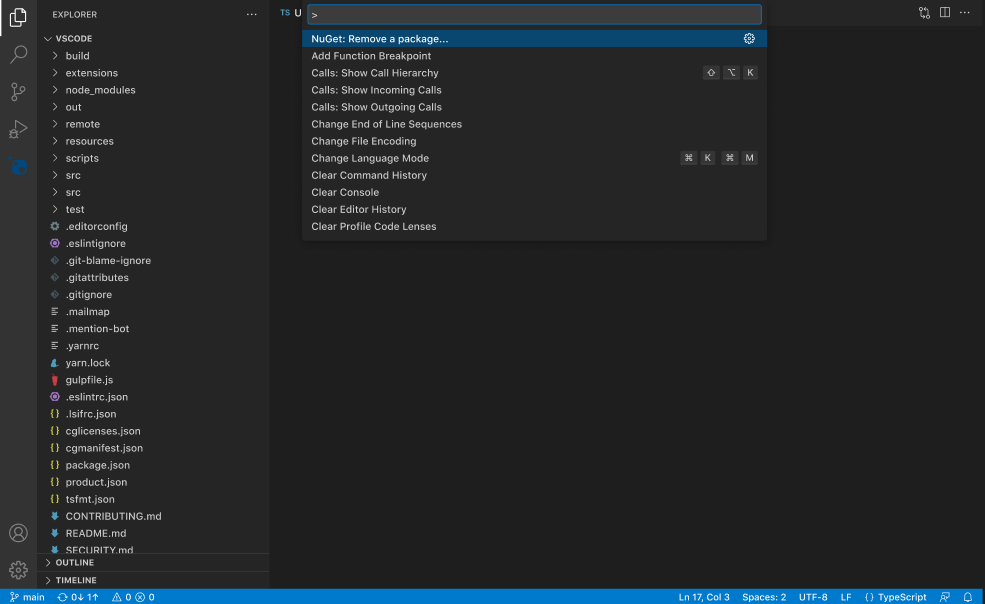
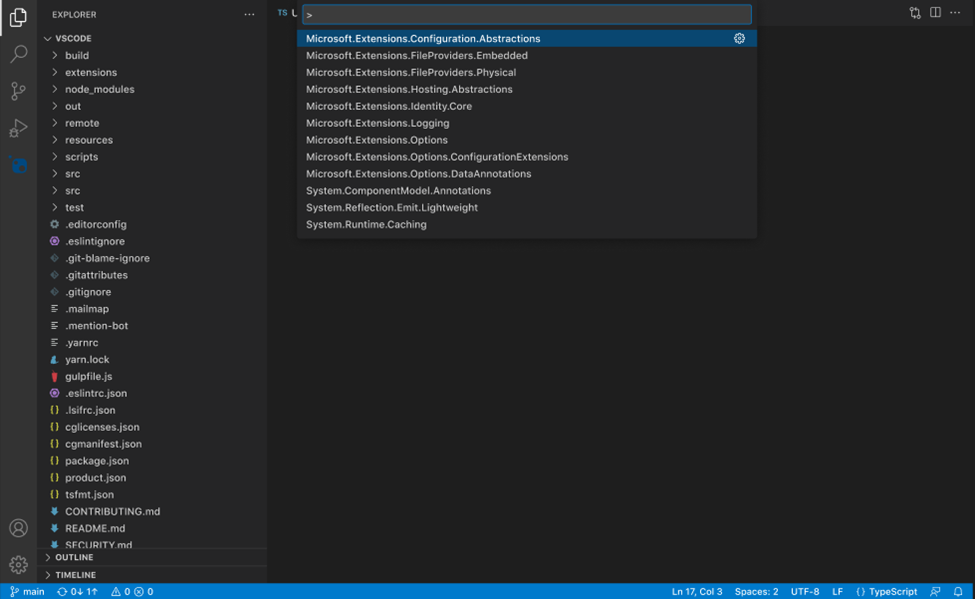
updated version from feedback

diff --git a/accepted/2023/vscode-commands.md b/accepted/2023/vscode-commands.md
@@ -1,23 +1,22 @@
-# NuGet Package Management: Command Palette & Quick Picks in Visual Studio Code/C# Dev Kit - MVP
+# NuGet Command Experiences for VS Code & C# Dev Kit Solution Explorer
 
-- Jon Douglas, Allie Barry, Jean-Pierre Briede
-- GitHub Issue <!-- GitHub Issue link -->
+- Allie Barry, Jon Douglas, Jean-Pierre Briede
 
 ## Summary
 
-<!-- One-paragraph description of the proposal. -->
-This proposal introduces a command palette experience including 'quickpick' flows and integration with C# DevKit for NuGet package management. It covers the initial experiences for adding, removing, and updating a NuGet package. This document covers the minimum viable product (MVP) for a NuGet command palette experience, and leaves room for growth and expansion on these initial concepts, both in enhancing these 3 features, or in the addition of more NuGet command palette features.
+This proposal introduces a Visual Studio Code NuGet package management experience including command palette flows and integration with C# Dev Kit. It covers the initial experiences for adding, removing, and updating a NuGet package. This document covers the minimum viable product (MVP) for a NuGet command palette experience, and leaves room for growth and expansion on these initial concepts, both in enhancing these 3 features, or in the addition of more NuGet command palette features.
 
 ## Table of Contents
 
 1. [Motivation](#motivation)
 2. [Functional Explanation](#functional-explanation)
-    - [Browse and Install a Package - Command Palette](#option-1-navigating-to-add-package-directly-in-command-palette)
-    - [Browse and Install a Package - C# Dev Kit](#option-2-navigating-to-nuget-add-package-command-through-c-devkit-solution-explorer)
-    - [Removing a Package - Command Palette](#option-1-navigating-to-remove-package-directly-in-command-palette)
-    - [Removing a Package - C# Dev Kit](#option-2-navigating-to-nuget-remove-package-command-through-c-devkit-solution-explorer)
-    - [Updating a Package - Command Palette](#option-1-navigating-to-update-package-directly-in-command-palette)
-    - [Updating a Package - C# Dev Kit](#option-2-navigating-to-nuget-update-package-command-through-c-devkit-solution-explorer)
+    - [Browse and Install a Package - Entry Points](#browse-and-install-a-package---entry-points)
+    - [Browse and Install a Package - Operation Flow](#browse-and-install-a-package---operation-flow)
+    - [Remove a Package - Entry Points](#removing-a-package---entry-points)
+    - [Remove a Package - Operation Flow](#removing-a-package---operation-flow)
+    - [Update - Entry Points](#updating-a-package---entry-points)
+    - [Update a Package - Operation Flow](#updating-a-package---operation-flow)
+    - [Authentication to Private Feeds](#authentication-to-private-feeds)
 3. [Technical Explanation](#technical-explanation)
 4. [Drawbacks](#drawbacks)
 5. [Rationale and Alternatives](#rationale-and-alternatives)
@@ -27,148 +26,153 @@ This proposal introduces a command palette experience including 'quickpick' flow
 
 ## Motivation
 
-<!-- Why are we doing this? What pain points does this solve? What is the expected outcome? -->
 Visual Studio Code now supports "C# Dev Kit" which is an extension that allows a .NET/C# developer to use familiar Visual Studio tooling for their purposes. This proposal brings integrated Visual Studio Code-like experiences directly into the extension to make it easier for .NET/C# developers to manage their packages and package-related tasks.
 
-Requests for NuGet functionality are at an all time high since the general availability of C# Dev Kit. NuGet feature requests remain in the top 3 of GitHub issues on the C# Dev Kit repository. It was a popular ask at MVP Summit, Microsoft Build, and dotnetConf.
+Requests for NuGet functionality are at an all-time high since the general availability of C# Dev Kit. NuGet feature requests remain in the top 3 of GitHub issues on the C# Dev Kit repository. It was a popular ask at MVP Summit, Microsoft Build, and dotnetConf.
 
-In a recent Visual Studio for Mac/C# Dev Kit survey, when asked about "features or experiences missing from the VS Code experience that are critical to their workflow", 20 out of 157 respondents mentioned NuGet package manager functionality. They specifically called out "being able to look up available NuGet packages to solve specific problems", "updating to the latest version of NuGet packages", and wanting a "visual experience".
+In a recent Visual Studio for Mac/C# Dev Kit survey, when asked about "features or experiences missing from the VS Code experience that are critical to their workflow", 20 out of 157 respondents mentioned NuGet package manager functionality. They specifically called out "being able to look up available NuGet packages to solve specific problems", "updating to the latest version of NuGet packages” and wanting a "visual experience".
 
-For each feature, there are two "entry points" presented for how users can reach each command. The commands will be exactly the same for each entry point. The purpose of this is to allow for VS Code developers who are familiar with and comfortable using the command palette to continue doing so when managing NuGet packages, but to also cater to and integrate seamlessly into C# DevKit. We wanted to tap into the rich and expansive C# experience that Dev Kit offers, and utilize it to provide a more visual NuGet experience without yet having a full UI. This concept came from exploration of ways that developers can currently interact with elements in the C# Dev Kit solution explorer (ex. files, folders, etc.), and wanting to allow developers to interact with packages in the solution explorer in an intuitive way based on this.
+For each feature, there are two "entry points" presented for how users can reach each package operation. The operations will be the same for each entry point. The purpose of this is to allow for VS Code developers who are familiar with and comfortable using the command palette to continue doing so when managing NuGet packages, but to also cater to and integrate seamlessly into C# Dev Kit Solution Explorer. We wanted to tap into the rich and expansive C# experience that Dev Kit offers through the solution explorer, and utilize it to provide a more visual NuGet experience without yet having a full UI. This concept came from exploration of ways that developers can currently interact with elements in the C# Dev Kit solution explorer (ex. files, folders, etc.), and wanting to allow developers to interact with packages in the solution explorer in an intuitive way based on this.
 
-Given the high demand for this functionality, we first plan to integrate NuGet package management into C# Dev Kit and the VS Code command palette to get a solution for managing NuGet packages into the hands of users as soon as possible. From there, we plan to explore and build a visual UI to compliment and enhance this experience.
+Given the high demand for this functionality, we first plan to integrate NuGet package management into C# Dev Kit and the VS Code command palette to get a solution for managing NuGet packages into the hands of users as soon as possible. From there, we plan to explore and build a visual UI to complement and enhance this experience.
 
 ## Functional Explanation
 
-<!-- Explain the proposal as if it were already implemented and you're teaching it to another person. -->
-<!-- Introduce new concepts, functional designs with real life examples, and low-fidelity mockups or pseudocode to show how this proposal would look. -->
+Each package operation (add, remove, and update), will essentially be broken down into two “steps”: the entry point and the operation. For step 1 (the entry point), the user will have two options:
+a. Command Palette
+b. Solution Explorer
+These two options represent different ways that the user can initiate a NuGet package operation in their project. Once the operation is initiated, step 2 (the operation), will behave the same way, and have the same flow, regardless of the entry point chosen. Below is a diagram which visually represents this logic for the package installation operation.
 
-### Browse and Install a Package
+![Alt text](../../meta/resources/vscode-commands/flowdiagram.png)
 
-#### Option 1: Navigating to add package directly in command palette
+This format will be used for all operations in the MVP including add package, remove package, update package. The following sections will provide more detail for the flow of each of these operations.
+
+### Browse and Install a Package - Entry Points
+
+#### Option A: Command Palette Entry Point
 
 A new command is listed named `NuGet: Add package...``.
 
-![Screenshot showing the Visual Studio Code command palette with 'NuGet: Add package...' command at the top of the list and highlighted](../../meta/resources/vscode-commands/addpackage-commandpalette1.png)
+![Alt text](../../meta/resources/vscode-commands/addpackage.png)
 
-When a developer selects this command, they might first have to set the context for where they would like this package to be installed, at the project level or at the solution level for projects with multiple solutions. If, in a certain use case this distinction needs to be made, the user will first have to specify the context in the first quickpick option. There are a few other options for how we could allow the user to set the context for operations detailed in the 'Unanswered questions' section of this document.
+Next, if the user has multiple projects, they will be presented with with a quickpicks dialog asking them to choose, from a dropdown list, which of their projects they would like to add the package to.
+For now, this will be a single selection, where the user can only select one project at a time.
+If the user only has one project, they will not need to choose a project and they will skip to the next step.
 
-![Screenshot showing quickpicks option asking the user to select if they want the package to be installed at the project level or the solution level.](../../meta/resources/vscode-commands/addpackage-context.png)
+#### Option B: Solution Explorer Entry Point
 
-The rest of the flow will be the same for both project and solution level installations. Next, they will see a search box to provide a search term for a respective package to be found on their package sources. If the user wants to search specifically by a package attribute, they can do so by following the convention 'owner:Microsoft'. Otherwise, the search will search across all package attributes. (To see more information about what is supported with the syntax, see here: ![Fins and evaluate NuGet packages | Microsoft Learn](https://learn.microsoft.com/en-us/nuget/consume-packages/finding-and-choosing-packages#search-syntax).)
+At the Project level node in the solution explorer, we plan to add an item to the right-click menu that reads “Add a NuGet Package”.
 
-![Screenshot showing the quick picks search box prompting the user to enter a search term to search for a NuGet package.](../../meta/resources/vscode-commands/addpackage-searchbox.png)
+![Alt text](../../meta/resources/vscode-commands/addpackage-rightclick.png)
 
-The developer can then enter a search term to search for a NuGet package, and press enter. At this point, if they would like to cancel the operation, they can press the 'Escape' key on the keyboard. There will be a line of text underneath the searchbox that alerts the user of the functions of both the 'Enter' and 'Escape' keys here.
+Additionally, in the solution explorer, there is a "Dependencies" node, and within that node, there is a "Packages" node   , which contains a list of all the NuGet packages directly installed into the solution in question. This folder only is visible in the solution explorer if there are already previously installed NuGet packages in the project. If the Packages folder is visible, when a user hovers over it, they will see a small icon showing the NuGet logo with a plus sign next to it appear in line on the far right  (actual icon to be used: pending design).
 
-When the developer presses enter, the results box will appear and provide them a selectable list of packages that match their search term. For the first iteration of this experience, only the package ID will be shown in the search results. There are a few other possible options for what the search results could look like in the "Future Possibilities" section later in this document.
+![Alt text](../../meta/resources/vscode-commands/addpackage-icon.png)
 
-![Screenshot showing the list of search results of NuGet packages when a user searched for the term "Microsoft". The results are a list of package ids on nuget.org that match the search term "Microsoft".](../../meta/resources/vscode-commands/addpackage-searchresults.png)
+Additionally, there will be another right-click menu on the Packages node  (if it is visible), providing them with options to manage their NuGet packages. Specifically, they will see an option to "Add package...".
+
+![Alt text](../../meta/resources/vscode-commands/addpackage-rightclick2.png)
+
+### Browse and Install a Package - Operation Flow
+
+First, the user will see a search box to provide a search term for a respective package to be found on their package sources. If the user wants to search specifically by a package attribute , and nuget.org is one of the configured package sources, they can do so by following the convention 'owner:Microsoft'. Otherwise, the search will search across all package attributes. (To see more information about what is supported with the syntax, see here : [Find and evaluate NuGet packages | Microsoft Learn](https://learn.microsoft.com/en-us/nuget/consume-packages/finding-and-choosing-packages))
+
+![Alt text](../../meta/resources/vscode-commands/addpackage-searchbox.png)
+
+The developer can then enter a search term to search for a NuGet package, and press enter. At this point, if they would like to cancel the operation, they can press the 'Escape' key on the keyboard. There will be a line of text underneath the search box that alerts the user of the functions of both the 'Enter' and 'Escape' keys here.
+
+When the developer presses enter, the results box will appear and provide them a selectable list of packages  that match their search term.  The search results will show the top 50 relevant packages which match this search term. For the first iteration of this experience, only the package ID will be shown in the search results. There are a few other possible options for what the search results could look like in the "Future Possibilities" section later in this document.
+
+![Alt text](../../meta/resources/vscode-commands/addpackage-searchbox2.png)
 
 Once a package is selected from the list, the user will then be prompted to select the version number that they would like to install.
 
-![Screenshot showing a selectable list of version numbers for 'Microsoft.CSharp' package.](../../meta/resources/vscode-commands/addpackage-searchresults.png)
+![Alt text](../../meta/resources/vscode-commands/addpackage-versionselect.png)
 
-Once the user selects their desired version number, the package will be installed. Once installation has either succeeded or failed, the developer will receive a toast notification notifying them of the status of the installation operation. If the installation has succeeded, the notification will read " Package X was successfully installed". If the installation has failed then the notification will read "Package X failed to install due to an error.". This toast will also include a blue button that says "More Information", which when clicked, will direct the developer to the output window where they can see why the installation failed.
+Once the user selects their desired version number  , the package will be installed . 
+If for some reason, the installation operation has failed, then the user will receive a toast notification which will read "Package X failed to install due to an error.". This toast will also include a button that says "More Information", which when clicked, will direct the developer to the output window where they can see why the installation failed.
 
-![Screenshot showing failed package install notification](../../meta/resources/vscode-commands/addpackage-failurenotification.png)
+![Alt text](../../meta/resources/vscode-commands/addpackage-failuretoast.png)
 
-![Screenshot showing successful package install notification](../../meta/resources/vscode-commands/addpackage-successnotification.png)
+### Removing a Package - Entry Points
 
-#### Option 2: Navigating to 'NuGet: Add Package' command through C# DevKit Solution Explorer
-
-A developer will also be able to access the same add package command through a right click experience built directly into the solution explorer offered through C# DevKit. We want to provide an experience that aligns closely with the experience that is currently offered in, and future plans for, C# Dev Kit. When interacting with the solution explorer for C# projects that is offered through DevKit, many of the elements that exist today can be interacted with through a similar right-click experience, as well as icons that appear on hover of these elements that allow for quick selection of common functions. We want to incorporate this functionality into the NuGet VS Code experience to allow for a seamless and well-rounded experience for C# Developers.
-
-In the solution explorer, there is a "Dependencies" node, and within that node, there is a "Packages" node, which contains a list of all of the NuGet packages directly installed into the solution in question. When a user hovers over this "Packages" folder, they will see a small plus sign icon appear in line on the far right.
-
-![A screenshot showing the plus sign icon that will appear next to the "packages" folder when a user hovers over it](../../meta/resources/vscode-commands/addpackage-plussign.png)
-
-Additionally, when the user right clicks on this Packages folder, they will see a menu show up, providing them with options to manage their NuGet packages. Specifically, they will see an option to "Add package...".
-
-![Screenshot showing the menu that will appear when a user right clicks on the "packages folder" in C# DevKit. The menu contains an option to add a nuget package](../../meta/resources/vscode-commands/addpackage-rightclickmenu.png)
-
-When the user selects the "Add package" menu list item, or when they select the 'plus sign' icon that appears on hover next to the
-'Packages' folder, the command palette will open and they will be guided through the same package install process described in option 1, starting with the empty search box to search for a specific package.
-
-![Screenshot showing the quick picks search box prompting the user to enter a search term to search for a NuGet package.](../../meta/resources/vscode-commands/addpackage-searchbox.png)
-
-### Removing a Package
-
-#### Option 1: Navigating to remove package directly in command palette
+#### Option A: Command Palette Entry Points
 
 A new command is listed named `NuGet: Remove a package...``.
 
-![Screenshot showing the command palette command called 'NuGet: Remove a package...'](../../meta/resources/vscode-commands/removepackage-searchbox.png)
+![Alt text](../../meta/resources/vscode-commands/removepackage.png)
 
-When a developer selects this command, it will prompt them in a search box to provide a search term for a respective package to be found within the packages they have installed in their current solution. Beneath the search bar, a list of all packages installed in the solution will appear, and the developer will have the option to enter a search term to narrow down the list, or just select directly from the list provided.
+When a developer selects this command, they will be prompted to select which project they would like to remove a package from with a dropdown of all of their projects. If the user only has one project, they will not see this option, and will skip to the next step.
 
-![Screenshot showing the search bar for removing a package, with the list of all potential options (packages installed in the solution) pre-populated below the search bar](../../meta/resources/vscode-commands/removepackage-searchresults.png)
+Next, the user will be prompted in a search box to provide a search term for a respective package to be found within the packages they have installed in their current project.  Beneath the search bar, a list of all packages installed in the project will appear, and the developer will have the option to enter a search term to narrow down the list, or just select directly from the list provided.
 
-![Screenshot showing the search bar for removing a package, with a search term entered and the list of potential packages listed below is now narrowed down to only packages installed in the solution AND that match the search term](../../meta/resources/vscode-commands/removepackage-searchresults2.png)
+![Alt text](../../meta/resources/vscode-commands/removepackage-searchbox.png)
 
-When the user selects the package they would like to remove, if it is a project with multiple solutions, and the package is installed at the project level, the user will need to choose if they would like the package to be removed at the solution level or the project level.
+![Alt text](../../meta/resources/vscode-commands/removepackage-searchbox2.png)
 
-![Alt text](../../meta/resources/vscode-commands/removepackage-context.png)
-
-Once they make this choice, if necessary, they will be prompted to confirm their choice with a pop-up bar. If the user confirms this by clicking 'Remove', the package will be removed from their solution. They will also have the option to cancel the operation at this point.
-
-![Screenshot showing the pop-up notification asking the user to confirm the removal of a package from their solution](../../meta/resources/vscode-commands/removepackage-confirmation.png)
-
-#### Option 2: Navigating to 'NuGet: Remove package' command through C# DevKit solution explorer
-
-A developer will also be able to access the same remove package command through an experience built directly into the solution explorer offered through C# DevKit.
+#### Option B: Solution Explorer Entry Points
 
 When a user hovers over a package that they have installed in their solution explorer, they will see two small icons appear, one of which being a 'minus sign'.
 
-![Alt text](../../meta/resources/vscode-commands/updateremove-hover.png)
+![Alt text](../../meta/resources/vscode-commands/removeupdate-icon.png)
 
-Additionally, if the developer right clicks on a specific package in the folder, they will see a menu of options for operations to perform on this specific package. One of these options will be: "Remove package...".
+Additionally, if the developer right clicks on a specific package in the folder, they will see a menu of options for operations to perform on this specific package.  One of these options will be: "Remove NuGet package...".
 
-![Screenshot showing the C# dev kit solution explorer. The user has right clicked on a package in the 'Packages' folder, and a pop up menu is shown with the options 'Remove package...' and 'Update package...'](../../meta/resources/vscode-commands/rightclick-removeandupdate.png)
+![Alt text](../../meta/resources/vscode-commands/removeupdate-rightclick.png)
 
-When the user either clicks the minus sign in the solution explorer or clicks the 'Remove package...' menu item, they will be prompted to confirm their choice with a pop-up bar. When the user selects the 'Remove package...' option, the package will be removed from their solution, and it will disappear from their Dev Kit solution explorer. They will also have the option to cancel the operation at this point.
+### Removing a Package - Operation Flow
 
-![Screenshot showing the pop-up notification asking the user to confirm the removal of a package from their solution](../../meta/resources/vscode-commands/removepackage-confirmation.png)
+Once the user selects their desired package to be removed through one of the two entry points, they will be prompted to confirm their choice with a pop-up   . If the user confirms this by clicking 'Remove', the package will be removed from their project.  They will also have the option to cancel the operation at this point.
 
-### Updating a Package
+![Alt text](../../meta/resources/vscode-commands/removepackage-confirm.png)
 
-#### Option 1: Navigating to update package directly in command palette
+### Updating a Package - Entry Points
+
+#### Option A: Command Palette Entry Point
 
 A new command is listed named `NuGet: Update a package...``.
 
-![Screenshot showing the 'Update a package...' command in the command palette options](../../meta/resources/vscode-commands/updatepackage-commandpalette.png)
+![Alt text](../../meta/resources/vscode-commands/updatepackage.png)
 
-When a developer selects this command, it will prompt them in a search box to provide a search term for a respective package to be found within the packages they have installed in their current solution. Beneath the search bar, a list of all packages installed in the solution will appear, and the developer will have the option to enter a search term to narrow down the list, or just select directly from the list provided.
+When a developer selects this command, they will be prompted to select which project they would like to update a package in with a dropdown of all of their projects. If the user only has one project, they will not see this option, and will skip to the next step.
 
-![Screenshot showing the search bar for updating a package, with the list of all potential options (packages installed in the solution) pre-populated below the search bar](../../meta/resources/vscode-commands/removepackage-searchresults.png)
+Next, the user will be prompted in a search box to provide a search term for a respective package to be found within the packages they have installed in their current project.   Beneath the search bar, a list of all packages installed in the project will appear, and the developer will have the option to enter a search term to narrow down the list, or just select directly from the list provided.
 
-![Screenshot showing the search bar for updating a package, with a search term entered and the list of potential packages listed below is now narrowed down to only packages installed in the solution AND that match the search term](../../meta/resources/vscode-commands/removepackage-searchresults2.png)
+![Alt text](../../meta/resources/vscode-commands/removepackage-searchbox.png)
 
-When the user selects the package they would like to update, they will then see a list of all available versions of the package they've selected. They will also see a label that says 'current' next to the version they have currently installed.
+![Alt text](../../meta/resources/vscode-commands/removepackage-searchbox2.png)
 
-![Screenshot showing the command palette view to select which version of a package that you would like to update to](../../meta/resources/vscode-commands/updatepackage-versionselection.png)
+#### Option B: Solution Explorer Entry Points
 
-When the user selects the package they would like to update, if it is a project with multiple solutions, and the package is installed at the project level, the user will need to choose if they would like the package to be updated at the solution level or the project level.
+When a user hovers over a package that they have installed in their solution explorer, they will see two small icons appear, one of which being a 'up-arrow'.
 
-![Alt text](../../meta/resources/vscode-commands/updatepackage-context.png)
+![Alt text](../../meta/resources/vscode-commands/removeupdate-icon.png)
 
-Once the user makes this selection if necessary, the package version number will be updated in the solution.
+Additionally, if the developer right clicks on a specific package in the folder, they will see a menu of options for operations to perform on this specific package.  One of these options will be: "Update NuGet package version".
 
-#### Option 2: Navigating to 'NuGet: Update Package' command through C# DevKit solution explorer
+![Alt text](../../meta/resources/vscode-commands/removeupdate-rightclick.png)
 
-A developer will also be able to access the same update package command through an experience built directly into the solution explorer offered through C# DevKit.
+### Updating a Package - Operation Flow
 
-When a user hovers over a package that they have installed in their solution explorer, they will see two small icons appear, one of which being a 'up arrow'.
+When the user selects the package they would like to update , they will then see a list of all available versions of the package they've selected. They will also see a label that says 'current' next to the version they have currently installed.
 
-![Alt text](../../meta/resources/vscode-commands/updateremove-hover.png)
+![Alt text](../../meta/resources/vscode-commands/updatepackage-versionselect.png)
 
-Additionally, if the developer right clicks on a specific package in the folder, they will see a menu of options for operations to perform on this specific package. One of these options will be: "Update package...".
+Once the user makes this selection, if necessary, the package version number will be updated in the solution.
 
-![Screenshot showing the C# dev kit solution explorer. The user has right clicked on a package in the 'Packages' folder, and a pop up menu is shown with the options 'Remove package...' and 'Update package...'](../../meta/resources/vscode-commands/rightclick-removeandupdate.png)
+### Authentication to private feeds
 
-When the user selects the 'Update package' option or clicks the up arrow icon in the solution explorer, they will be guided through the same command palette flow described in option 1, starting from the version selection page.
+If the user is attempting to perform a package operation on a package from a source other than NuGet.org that requires the user to sign-in and authenticate their credentials, they will receive a toast, pictured below:
 
-![Screenshot showing the command palette view to select which version of a package that you would like to update to](../../meta/resources/vscode-commands/updatepackage-versionselection.png)
+![Alt text](../../meta/resources/vscode-commands/privatefeeds1.png)
+
+When the user clicks the Sign-In button, a browser window will open, and the user will have 90 seconds to sign in and verify their credentials.
+
+![Alt text](../../meta/resources/vscode-commands/privatefeeds2.png)
+
+If the user fails to accomplish this within the time constraint provided, the operation will fail and they will have to retry from the beginning. If the user doesn’t sign-in in time, or at all, and the operation fails, they will receive a toast alerting them of this.
+
+![Alt text](../../meta/resources/vscode-commands/addpackage-failuretoast.png)
 
 ## Technical Explanation
 
@@ -184,20 +188,11 @@ A potential drawback to this solution is that many user have specifically reques
 
 ## Rationale and alternatives
 
-<!-- Why is this the best design compared to other designs? -->
-<!-- What other designs have been considered and why weren't they chosen? -->
-<!-- What is the impact of not doing this? -->
-
-This design provides a starting point for a buildable and iterable experience for NuGet package management within VS Code and C# Dev Kit. It includes all of the basic features and functionality that users would require and expect for basic package management functions in VS Code. Additionally, it provides new value to users by including a visual experience and searching capabilities that were not previously available for VS Code developers. This design also provides a lot of room for additional information/details and functions to be added into this base experience. We plan to utilize customer feedback to help us understand what information about packages that users would expect to see at each step of these commands, as well as what commands and features should be added next.
+This design provides a starting point for a build-able and iterable experience for NuGet package management within VS Code and C# Dev Kit. It includes all of the basic features and functionality that users would require and expect for basic package management functions in VS Code. Additionally, it provides new value to users by including a visual experience and searching capabilities that were not previously available for VS Code developers. This design also provides a lot of room for additional information/details and functions to be added into this base experience. We plan to utilize customer feedback to help us understand what information about packages that users would expect to see at each step of these commands, as well as what commands and features should be added next.
 
 It also utilizes familiar functionality for users who are already familiar with both the VS Code command palette and C# dev kit. We worked with the Dev Kit team and closely analyzed current VS Code functionality, as well as how developers prefer to use this functionality, to help inform this experience.
 
 ## Prior Art
-
-<!-- What prior art, both good and bad are related to this proposal? -->
-<!-- Do other features exist in other ecosystems and what experience have their community had? -->
-<!-- What lessons from other communities can we learn from? -->
-<!-- Are there any resources that are relevant to this proposal? -->
 
 Prior art that we took inspiration from, most importantly includes what exists currently in VS Code and C# Dev Kit. We wanted to provide an experience that is closely integrated into what exists in and how users interact with these platforms, so we relied on this heavily when making design choices.
 
@@ -207,25 +202,9 @@ We also took inspiration from the already existing Maven extension in VS Code to
 
 ## Unresolved Questions
 
-<!-- What parts of the proposal do you expect to resolve before this gets accepted? -->
-<!-- What parts of the proposal need to be resolved before the proposal is stabilized? -->
-<!-- What related issues would you consider out of scope for this proposal but can be addressed in the future? -->
-
 - Will we include keyboard shortcuts for any commands?
-- For removing a package, can we utilize the existing delete command & key binding?
-- For removing a package, will we require users to confirm their choice before the package is removed? or for updating? adding?
-- Is it possible to ask the user to confirm their choice with a pop-up notification?
-- Can we allow users to backflow through commands, or undo their last selection and return to the last page in the command flow?
-- How do we want to allow the user to set the context (solution vs project level) for different package operations?
-    1. two separate add package commands for project / solution (Add package in project... Add package in solution...)
-    2. one add package command where the first quickpick asks for the context (project or solution level)
-    3. use any existing selected context and back-propagate to the closest .csproj or directory.packages.props file.
 
 ## Future Possibilities
-
-<!-- What future possibilities can you think of that this proposal would help with? -->
-
-expand on possibilities for future iterations ( more package details in the quick picks list, multi select for package uninstall and updates, etc.)
 
 Some future possibilities for this proposal fall into two categories: adding information/package details to enhance the feature experiences proposed here, and adding additional features to enhance the overall package management experience in VS Code.
 
